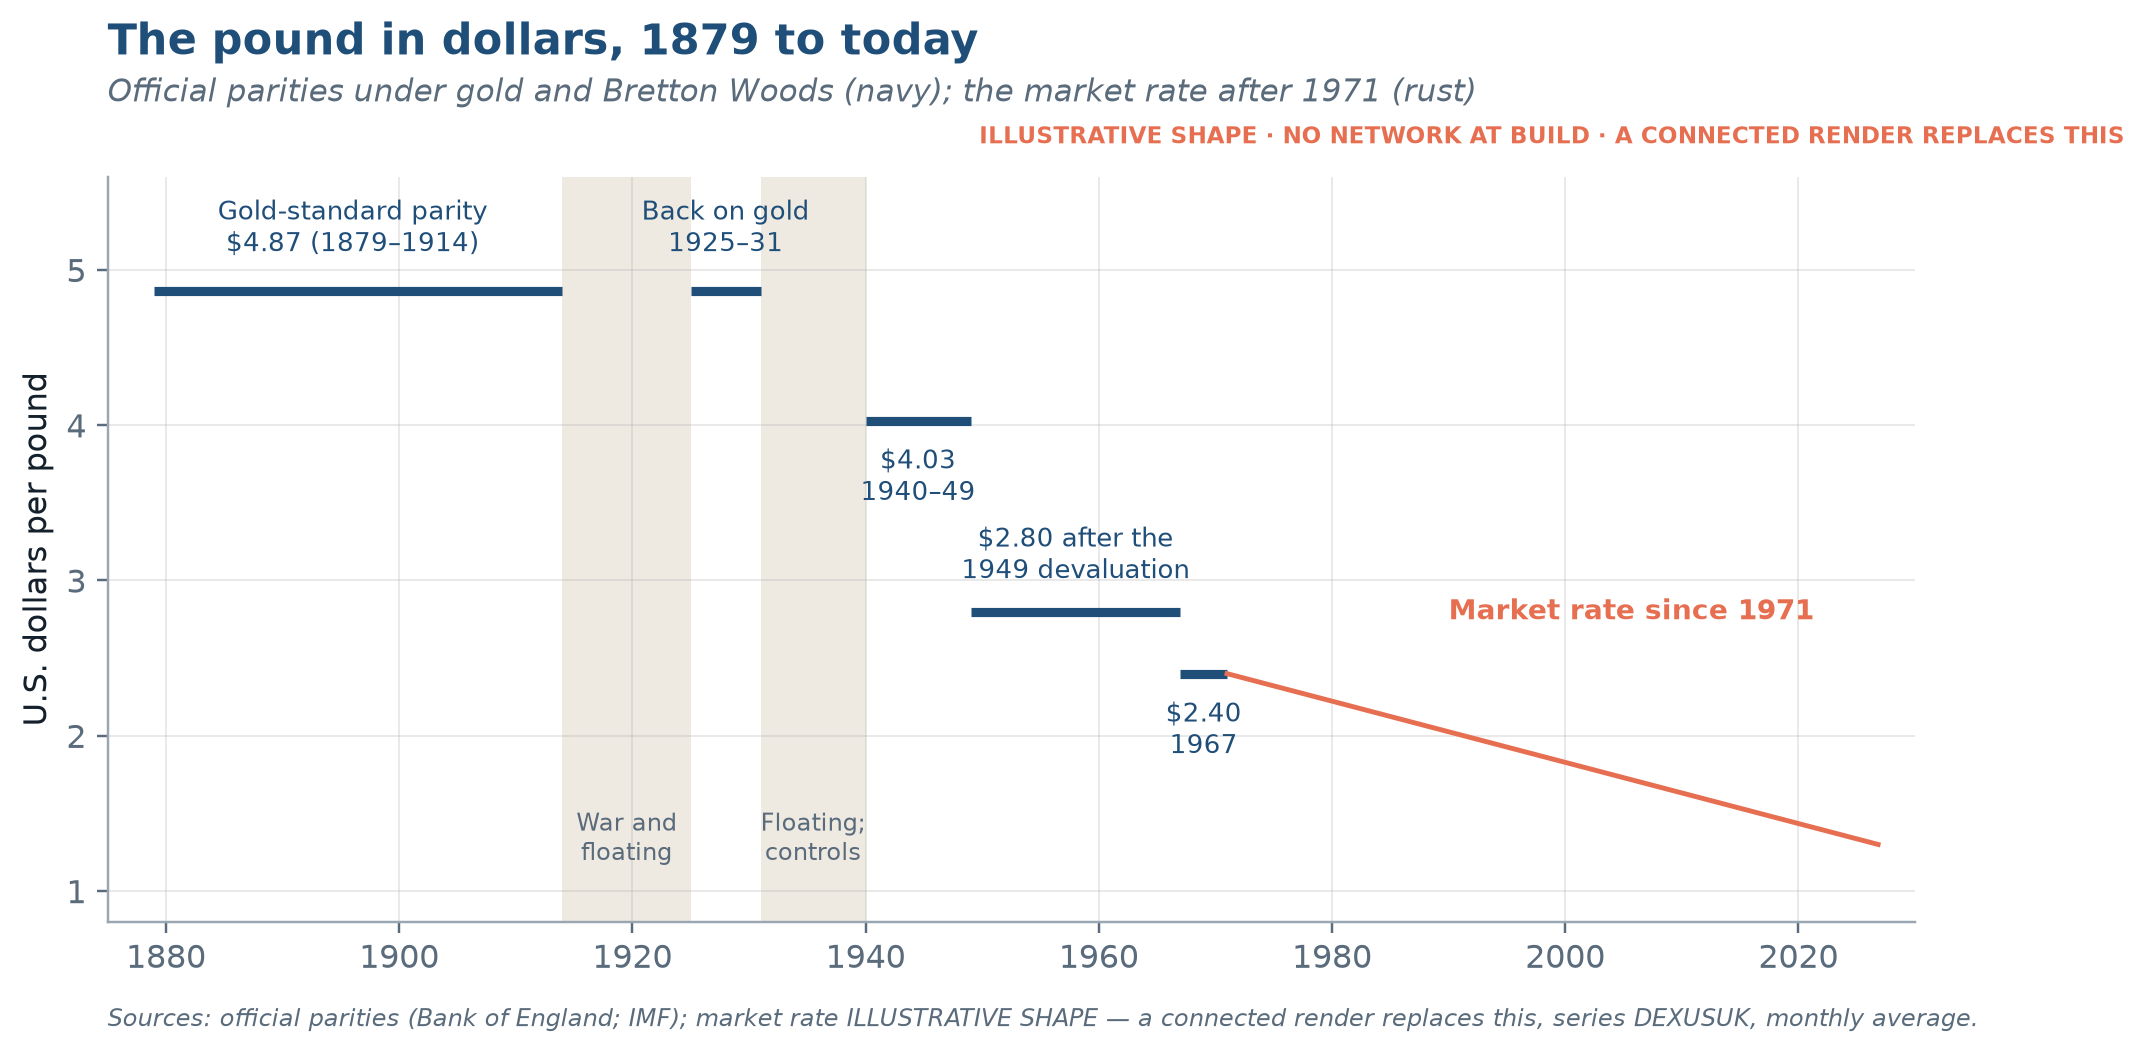
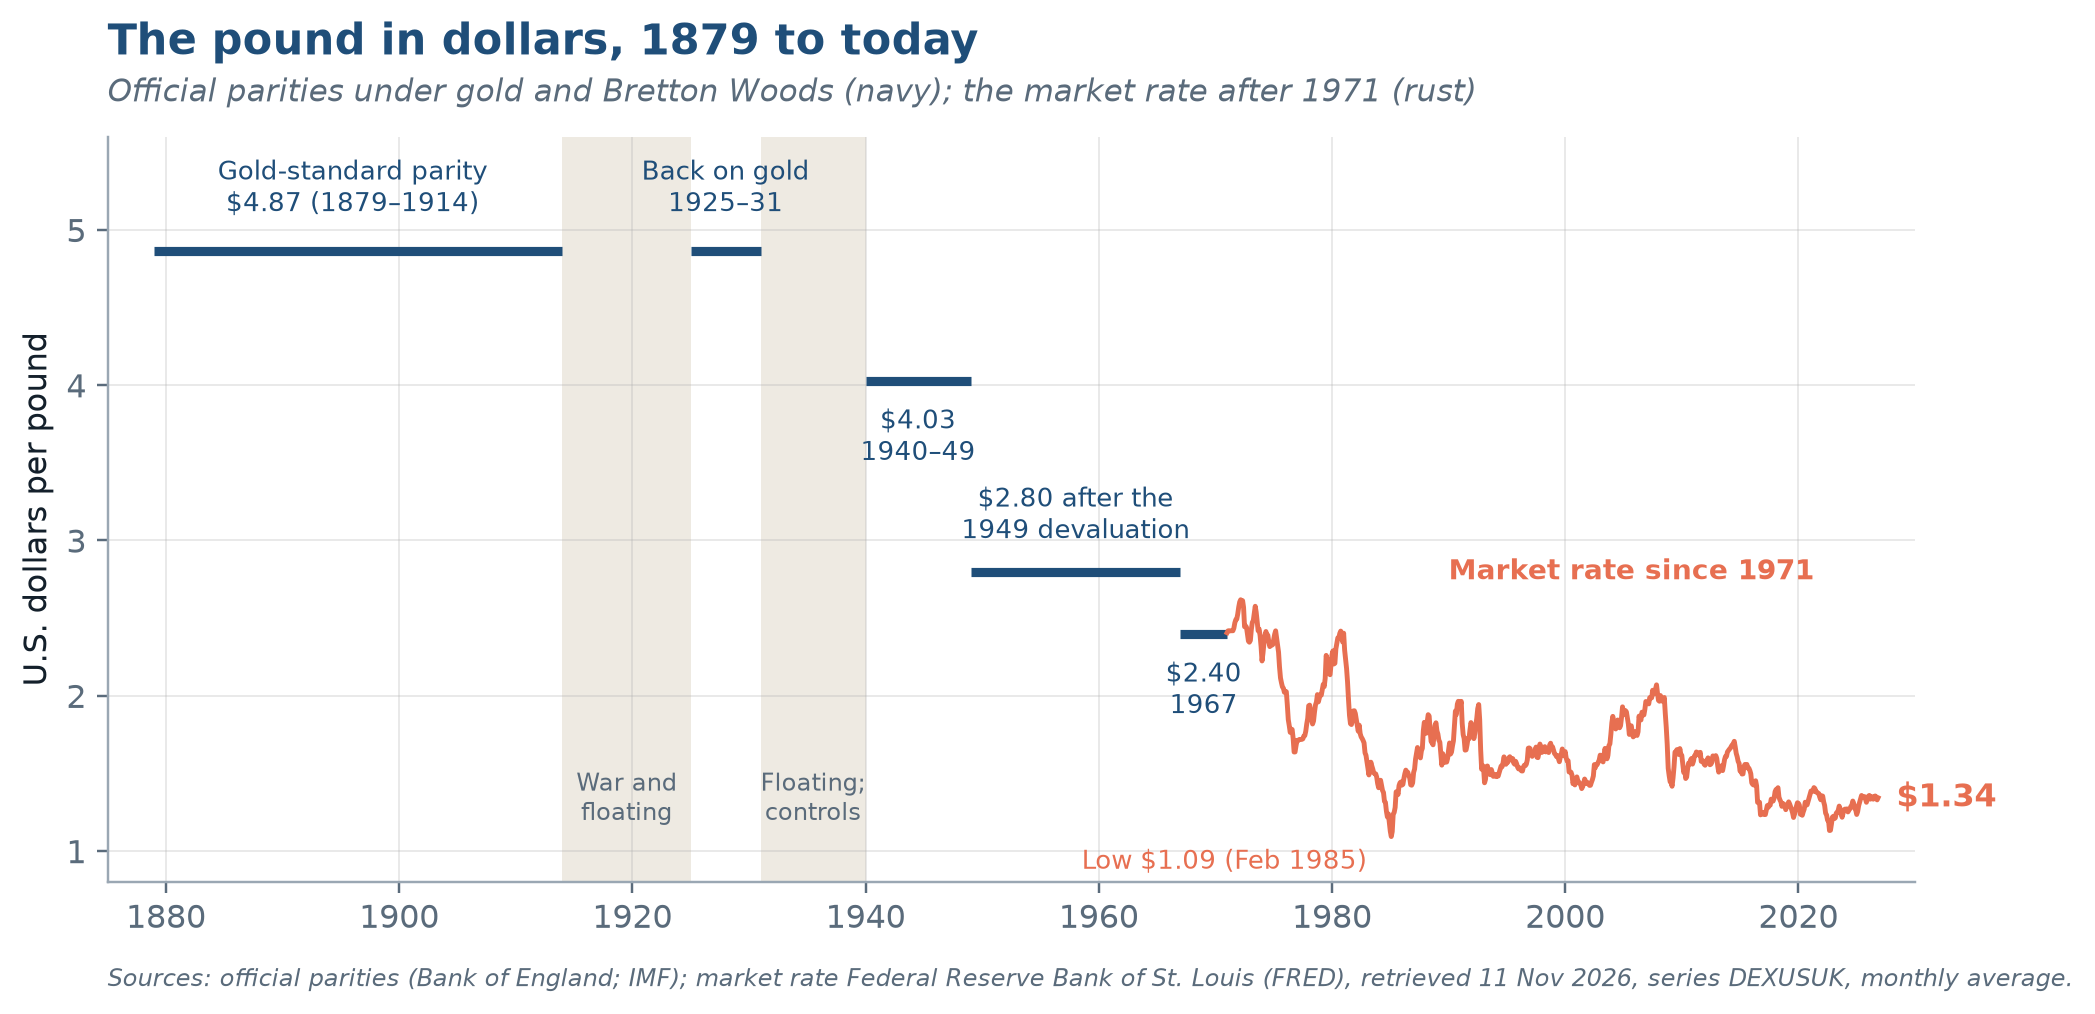
Built site for gh-pages

diff --git a/drafts/04-political-risk.html b/drafts/04-political-risk.html
@@ -276,7 +276,7 @@ ul.task-list li input[type="checkbox"] {
 <div class="cell-output cell-output-display">
 <div id="d04-epu" class="quarto-figure quarto-figure-center anchored">
 <figure class="figure">
-<p><img src="04-political-risk_files/figure-html/d04-epu-output-1.png" width="1093" height="476" class="figure-img"></p>
+<p><img src="04-political-risk_files/figure-html/d04-epu-output-1.png" width="1049" height="456" class="figure-img"></p>
 <figcaption><strong>Exhibit 4.3</strong> Global economic policy uncertainty since 1997. Compare its level today with the late 1990s.</figcaption>
 </figure>
 </div>
@@ -336,12 +336,12 @@ ul.task-list li input[type="checkbox"] {
 <li><strong><a href="https://www.economist.com/international/2026/11/03/fear-united-europe-nationalism-may-tear-it-apart">Fear united Europe. Nationalism may tear it apart</a></strong><br>
 <span class="news-meta">The Economist · 3 Nov 2026</span><br>
 </li>
-<li><strong><a href="https://www.bis.org/speeches/20261027-monetary-policy-times-geopolitical-tensions-and-technological-disruption">Monetary policy in times of geopolitical tensions and technological disruption</a></strong><br>
-<span class="news-meta">Bank for International Settlements · 26 Oct 2026</span><br>
-<span class="news-teaser">Speech by Mr Olli Rehn, Governor of the Bank of Finland, at the CEPS Macro group webinar, Helsinki, 20 October 2026.</span></li>
 <li><strong><a href="https://www.bis.org/speeches/20261027-asia-pacific-and-europe-building-resilience-and-growth-age-geopolitics-and-fragmentation">Asia-Pacific and Europe - building resilience and growth in an age of geopolitics and fragmentation</a></strong><br>
 <span class="news-meta">Bank for International Settlements · 26 Oct 2026</span><br>
 <span class="news-teaser">Speech by Mr Olli Rehn, Governor of the Bank of Finland, at the OMFIF (The Official Monetary and Financial Institutions Forum) symposium “Forging growth, trade and investment between Europe and…</span></li>
+<li><strong><a href="https://www.bis.org/speeches/20261027-monetary-policy-times-geopolitical-tensions-and-technological-disruption">Monetary policy in times of geopolitical tensions and technological disruption</a></strong><br>
+<span class="news-meta">Bank for International Settlements · 26 Oct 2026</span><br>
+<span class="news-teaser">Speech by Mr Olli Rehn, Governor of the Bank of Finland, at the CEPS Macro group webinar, Helsinki, 20 October 2026.</span></li>
 <li><strong><a href="https://www.economist.com/finance-and-economics/2026/10/15/how-ukraines-biggest-bank-is-run-in-a-war-zone">How Ukraine’s biggest bank is run in a war zone</a></strong><br>
 <span class="news-meta">The Economist · 15 Oct 2026</span></li>
 </ul>

diff --git a/chapters/01-introduction.html b/chapters/01-introduction.html
@@ -671,12 +671,12 @@ ul.task-list li input[type="checkbox"] {
 <li><strong><a href="https://www.bis.org/speeches/20261109-integrated-open-and-resilient-europes-strengths-fragmenting-world">Integrated, open and resilient - Europe’s strengths in a fragmenting world</a></strong><br>
 <span class="news-meta">Bank for International Settlements · 8 Nov 2026</span><br>
 <span class="news-teaser">Speech by Mr Boris Vujčić, Vice-President of the European Central Bank, at the 5th Financial System Conference, organised by the Central Bank of Ireland, Dublin, 2 November 2026.</span></li>
-<li><strong><a href="https://www.bis.org/speeches/20261103-path-back-2-has-become-less-comfortable">The path back to 2 % has become less comfortable</a></strong><br>
-<span class="news-meta">Bank for International Settlements · 2 Nov 2026</span><br>
-<span class="news-teaser">Dinner speech by Mr Tuomas Välimäki, Board Member of the Bank of Finland, on the outlook for the euro area economy and inflation, Helsinki, 2 November 2026.</span></li>
 <li><strong><a href="https://www.bis.org/speeches/20261103-payments-fragmenting-world-sovereignty-strategy-and-system-design">Payments in a fragmenting world - sovereignty, strategy and system design</a></strong><br>
 <span class="news-meta">Bank for International Settlements · 2 Nov 2026</span><br>
 <span class="news-teaser">Speech by Mr Denis Beau, First Deputy Governor of the Bank of France, at the South African Reserve Bank Payments Conference 2026, Pretoria, 21 October 2026.</span></li>
+<li><strong><a href="https://www.bis.org/speeches/20261103-path-back-2-has-become-less-comfortable">The path back to 2 % has become less comfortable</a></strong><br>
+<span class="news-meta">Bank for International Settlements · 2 Nov 2026</span><br>
+<span class="news-teaser">Dinner speech by Mr Tuomas Välimäki, Board Member of the Bank of Finland, on the outlook for the euro area economy and inflation, Helsinki, 2 November 2026.</span></li>
 <li><strong><a href="https://www.economist.com/finance-and-economics/2026/10/05/the-bond-market-sell-off-is-helping-the-dollar">The bond market sell-off is helping the dollar</a></strong><br>
 <span class="news-meta">The Economist · 5 Oct 2026</span></li>
 </ul>

diff --git a/drafts/03-currency-crises.html b/drafts/03-currency-crises.html
@@ -299,7 +299,7 @@ ul.task-list li input[type="checkbox"] {
 <div class="cell-output cell-output-display">
 <div id="d03-events" class="quarto-figure quarto-figure-center anchored">
 <figure class="figure">
-<p><img src="03-currency-crises_files/figure-html/d03-events-output-1.png" width="1205" height="566" class="figure-img"></p>
+<p><img src="03-currency-crises_files/figure-html/d03-events-output-1.png" width="1534" height="529" class="figure-img"></p>
 <figcaption><strong>Exhibit 3.2</strong> When the peg breaks. Each line is a currency’s value in dollars, set to 100 on the day its peg gave way. The live series come from the Federal Reserve’s daily exchange rates.</figcaption>
 </figure>
 </div>

diff --git a/drafts/02-ims.html b/drafts/02-ims.html
@@ -270,7 +270,7 @@ ul.task-list li input[type="checkbox"] {
 <div class="cell-output cell-output-display">
 <div id="d02-gbp" class="quarto-figure quarto-figure-center anchored">
 <figure class="figure">
-<p><img src="02-ims_files/figure-html/d02-gbp-output-1.png" width="1073" height="527" class="figure-img"></p>
+<p><img src="02-ims_files/figure-html/d02-gbp-output-1.png" width="1047" height="507" class="figure-img"></p>
 <figcaption><strong>Exhibit 2.2</strong> The pound in dollars. Under gold and Bretton Woods the rate was a policy decision that changed in steps; since 1971 it has been a market price that changes every second.</figcaption>
 </figure>
 </div>
